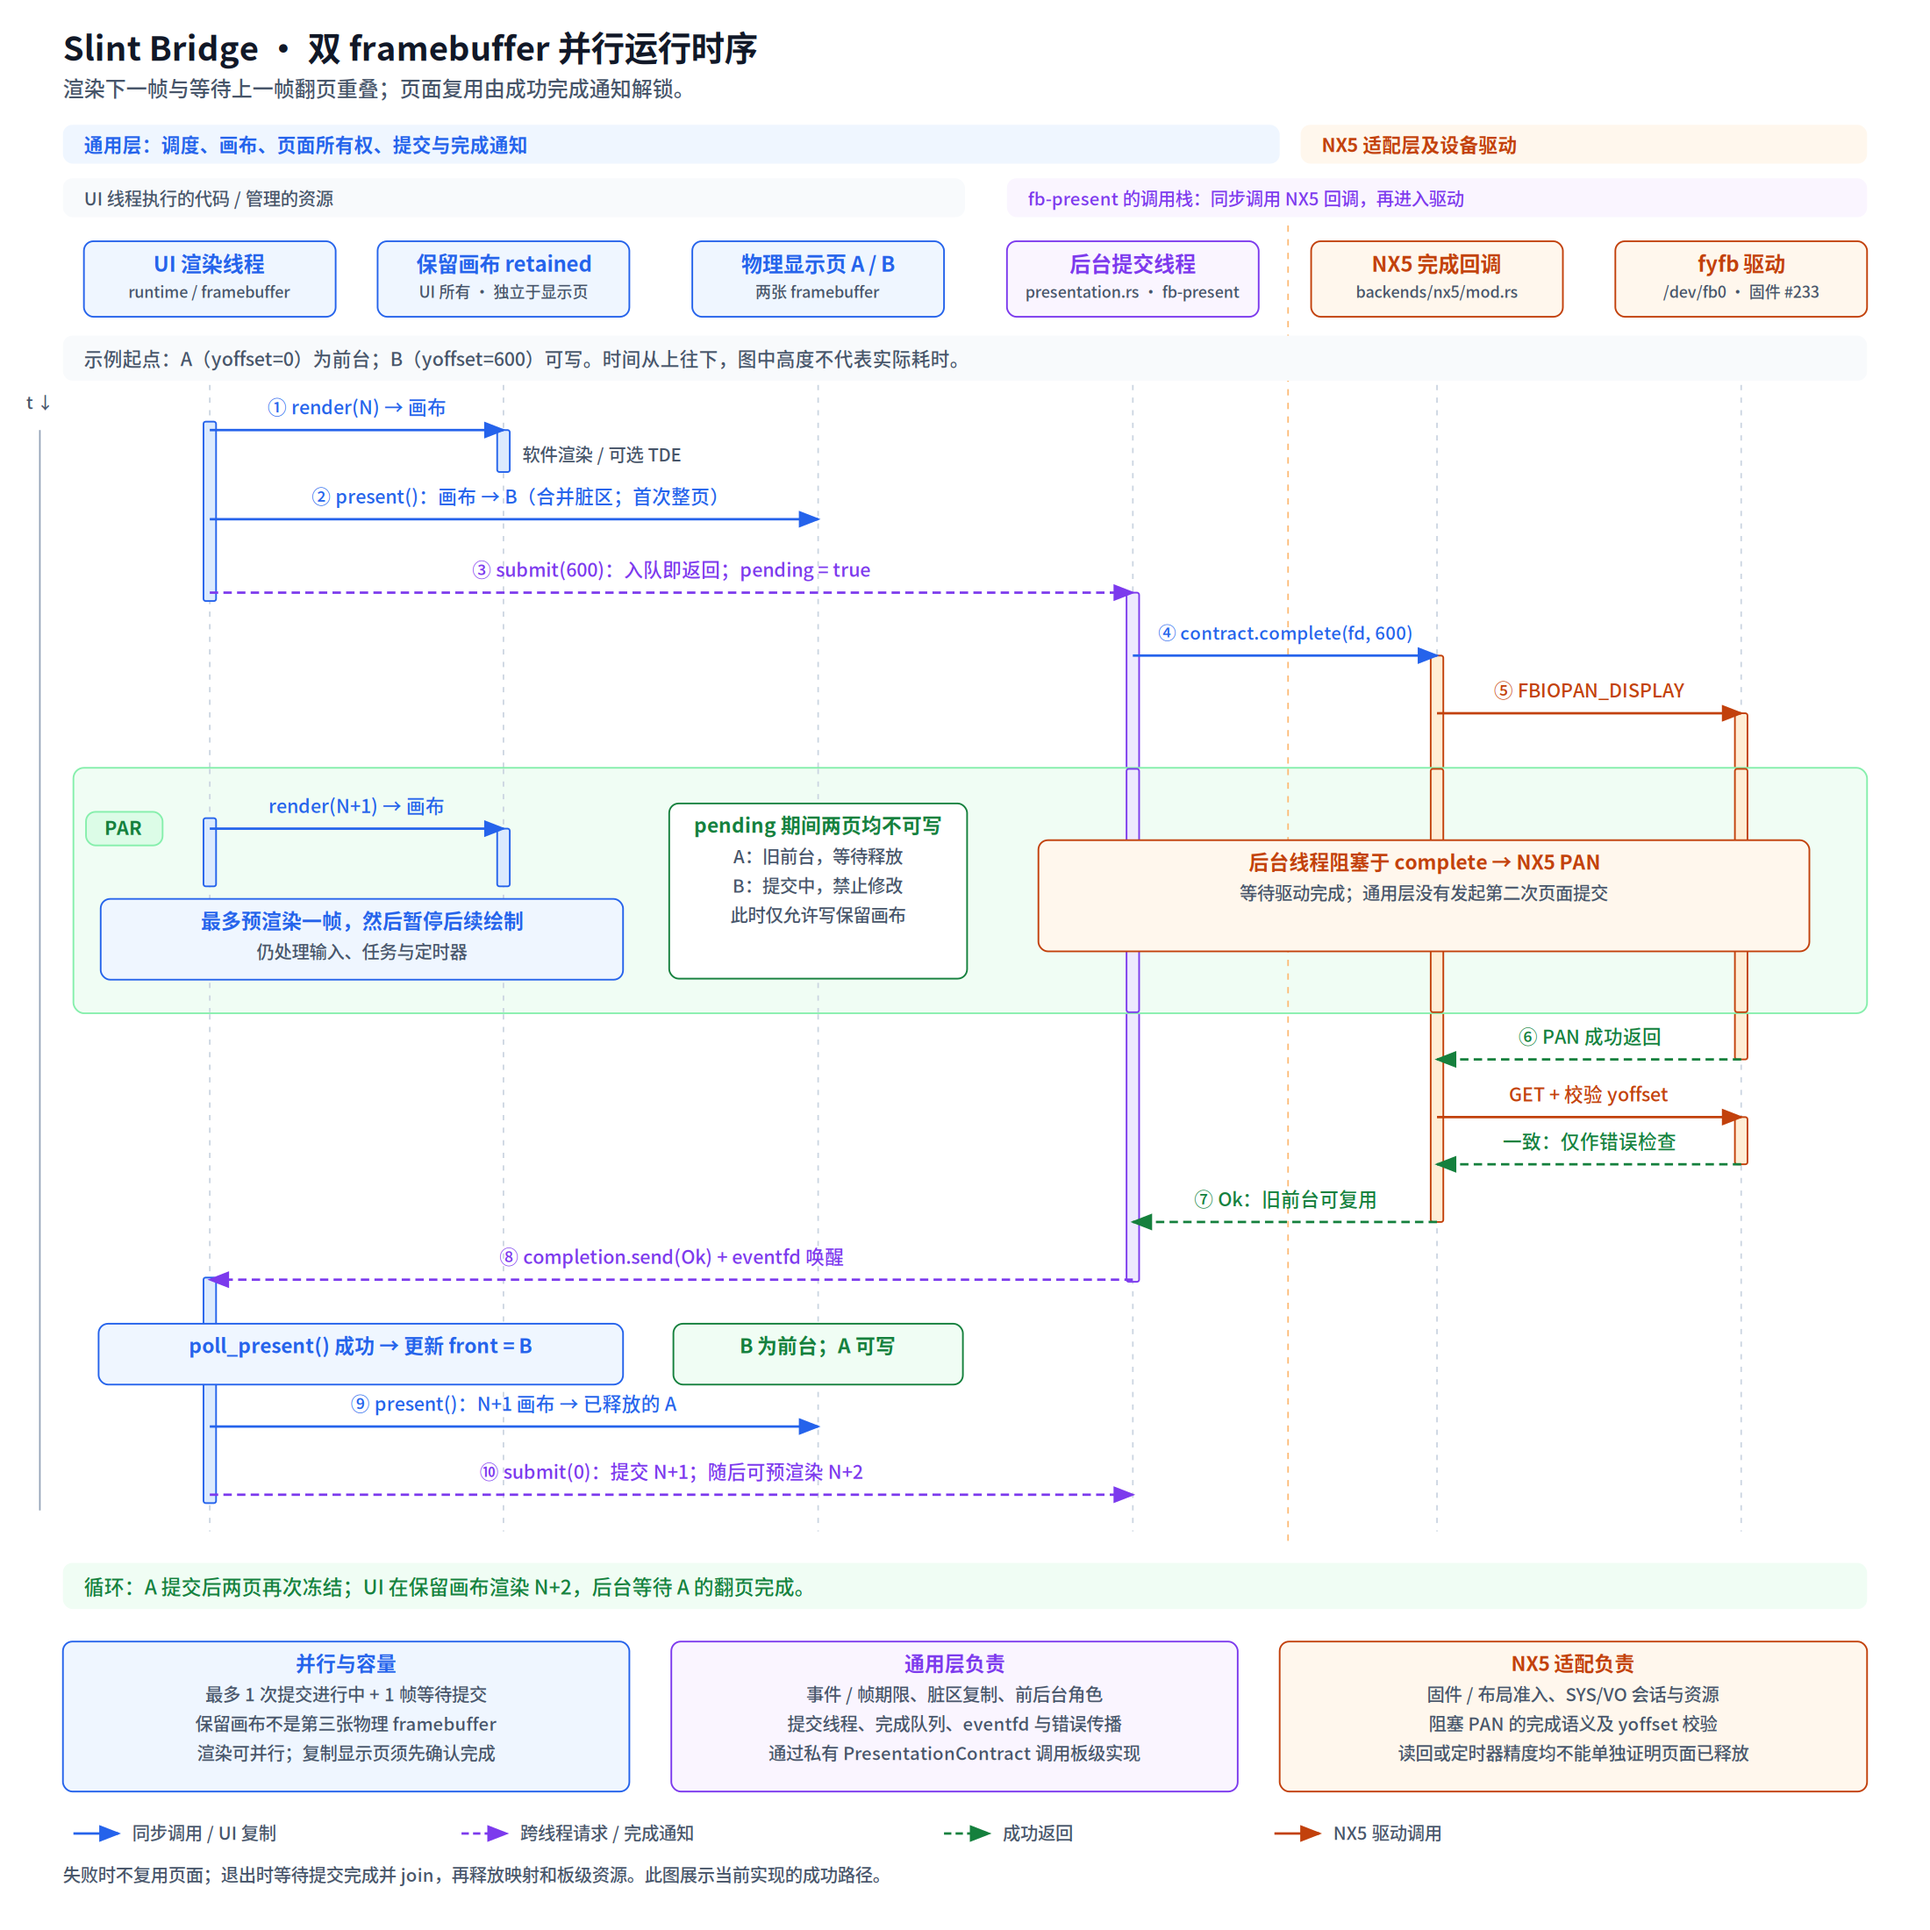
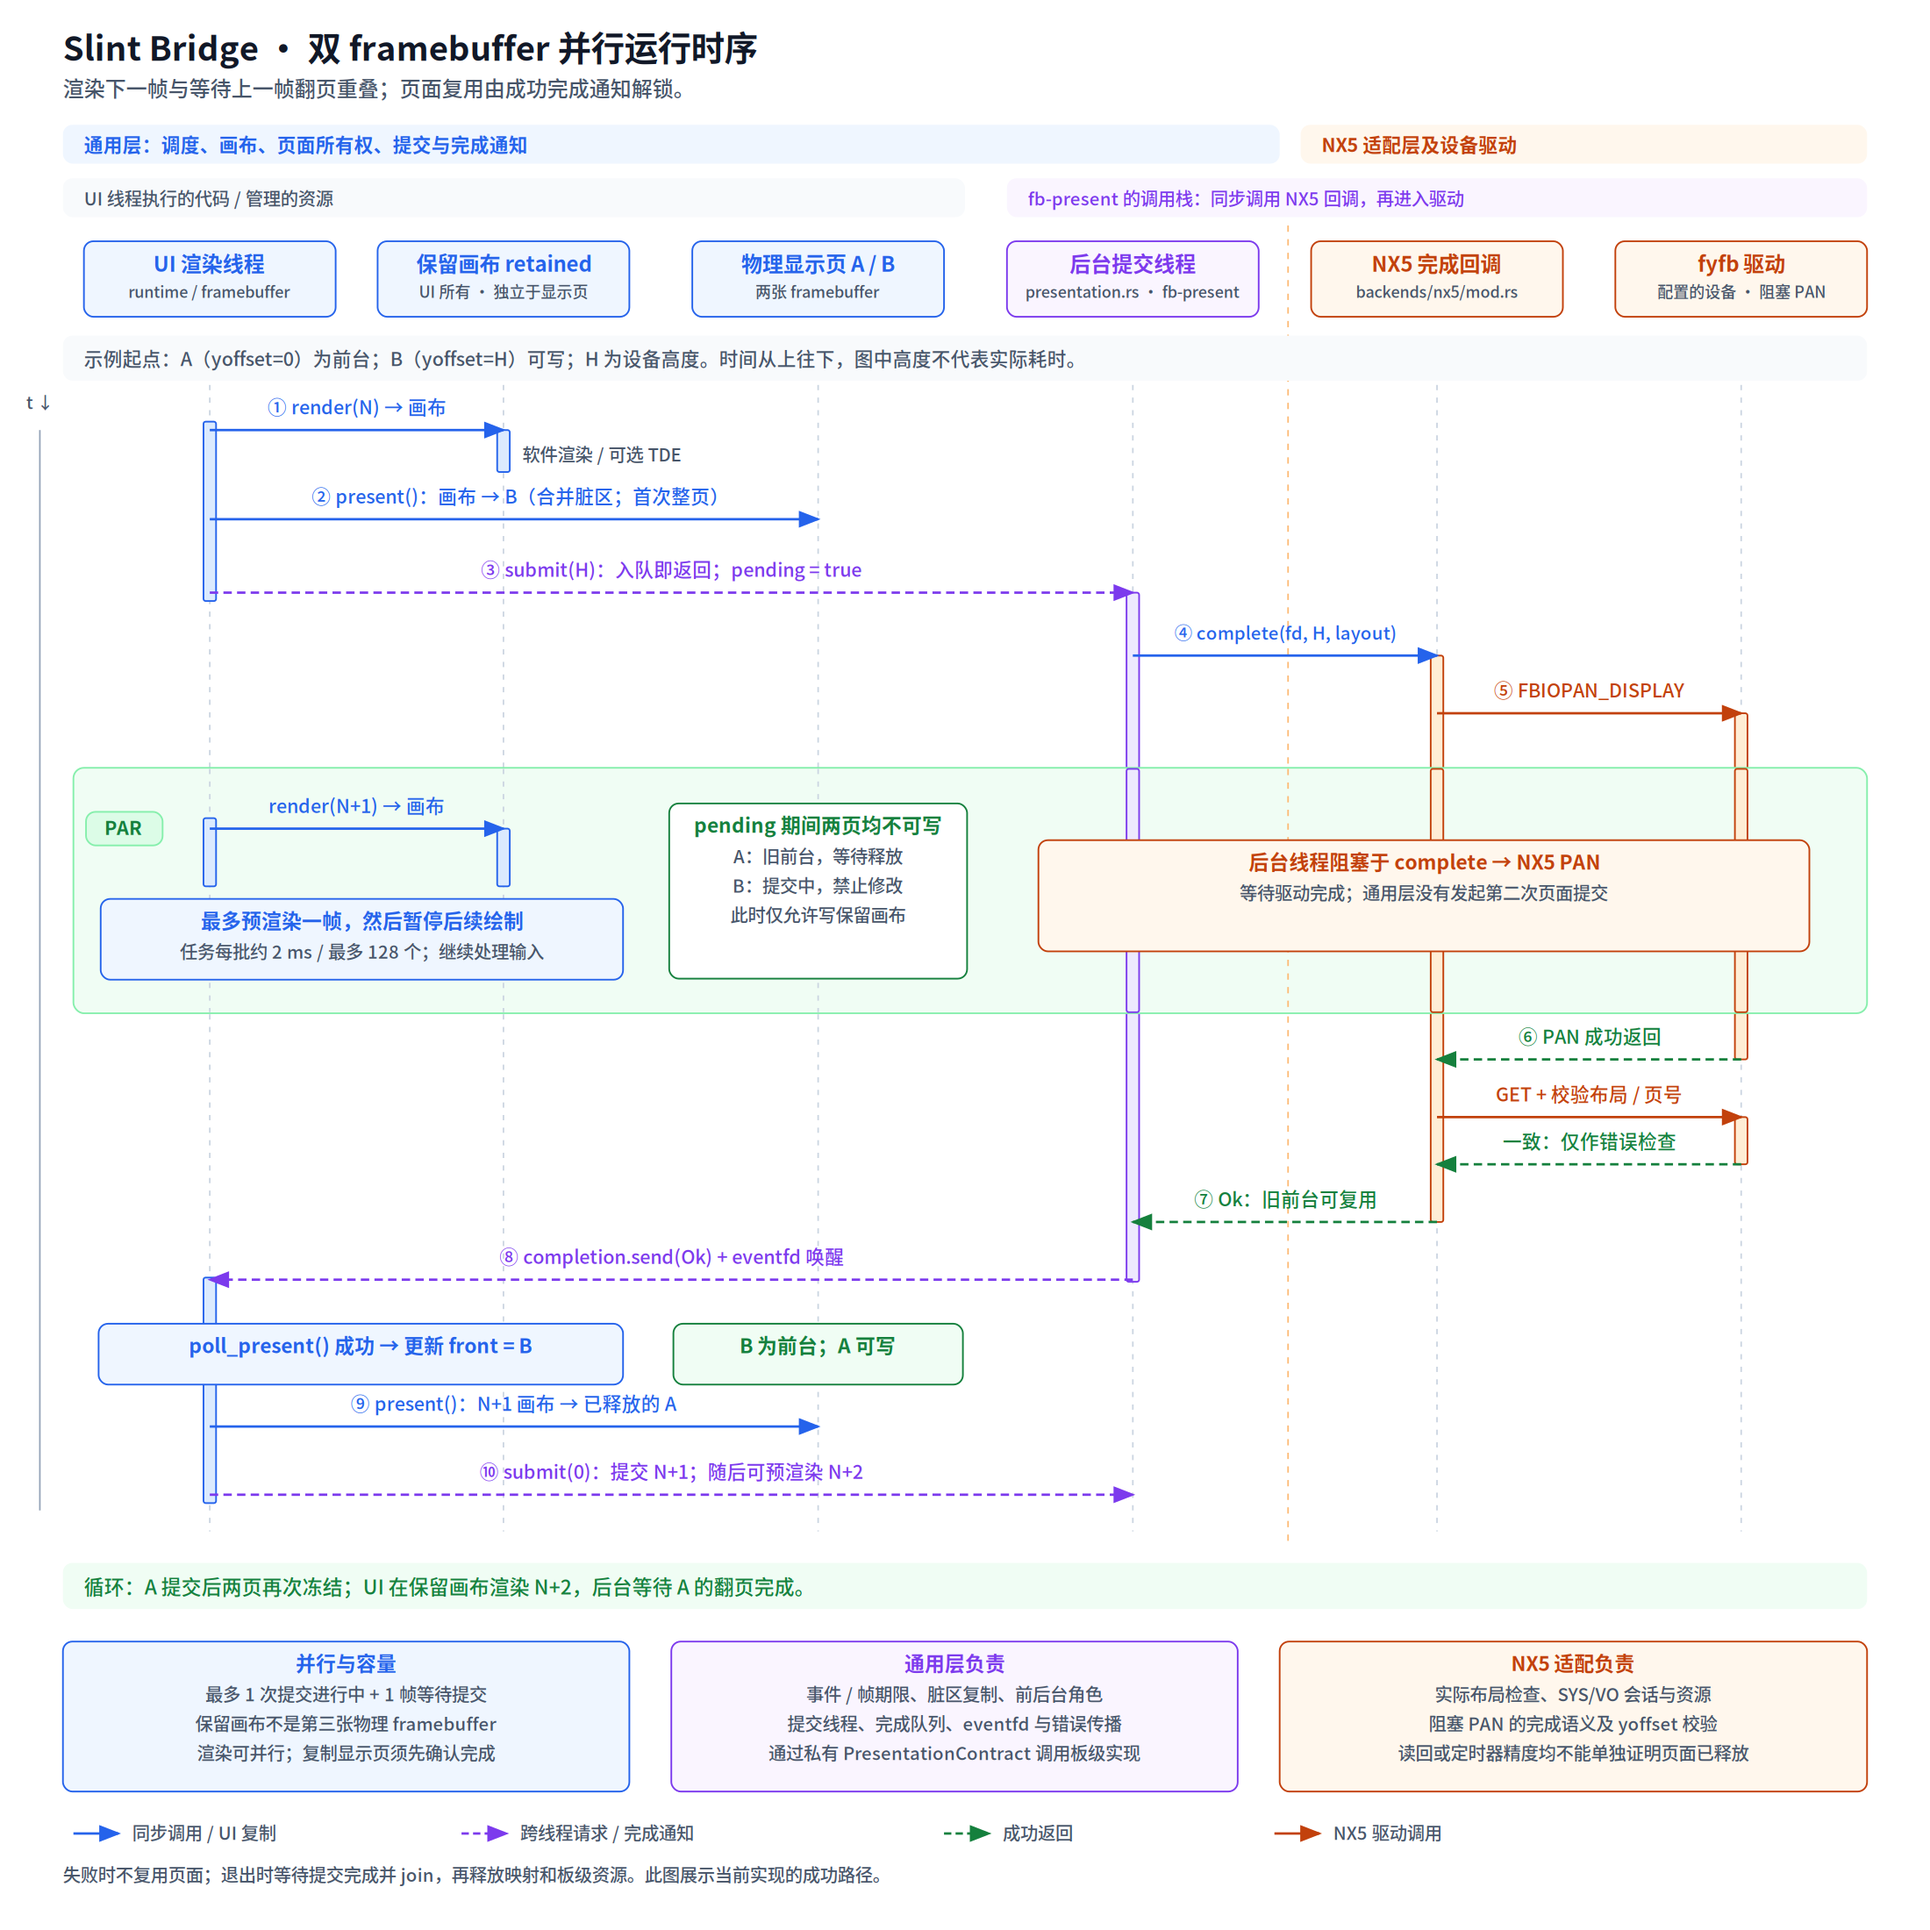
Bound wake task batches by elapsed time to prevent touch starvation

diff --git a/docs/diagrams/runtime-sequence.html b/docs/diagrams/runtime-sequence.html
@@ -127,7 +127,7 @@
 <text id="text-28" data-graph-role="label" data-owner="render-next" data-graph-bounds="258.48,757,421.52,779" x="340.0" y="775" text-anchor="middle" font-size="18" font-weight="500" fill="#2563eb">render(N+1) → 画布</text>
 <rect id="ui-work" data-graph-bounds="96,857,594,934" data-graph-role="reserved" x="96" y="857" width="498" height="77" rx="9" fill="#eff6ff" stroke="#2563eb" stroke-width="1.6" />
 <text id="text-29" data-graph-role="content" x="345.0" y="885" text-anchor="middle" font-size="19" font-weight="600" fill="#2563eb">最多预渲染一帧，然后暂停后续绘制</text>
-<text id="text-30" data-graph-role="content" x="345.0" y="914" text-anchor="middle" font-size="17" font-weight="400" fill="#475569">仍处理输入、任务与定时器</text>
+<text id="text-30" data-graph-role="content" x="345.0" y="914" text-anchor="middle" font-size="17" font-weight="400" fill="#475569">任务每批约 2 ms / 最多 128 个；继续处理输入</text>
 <rect id="frozen-pages" data-graph-bounds="638,766,922,933" data-graph-role="reserved" x="638" y="766" width="284" height="167" rx="9" fill="#ffffff" stroke="#15803d" stroke-width="1.6" />
 <text id="text-31" data-graph-role="content" x="780.0" y="794" text-anchor="middle" font-size="19" font-weight="600" fill="#15803d">pending 期间两页均不可写</text>
 <text id="text-32" data-graph-role="content" x="780.0" y="823" text-anchor="middle" font-size="17" font-weight="400" fill="#475569">A：旧前台，等待释放</text>

diff --git a/src/tests/runtime.rs b/src/tests/runtime.rs
@@ -18,6 +18,128 @@ fn send_input(writer: &mut File, events: &[(u16, u16, i32)]) {
 }
 
 #[test]
+fn queued_callbacks_yield_to_touch_before_finishing_the_backlog() {
+    const NAME: &str =
+        "tests::runtime::queued_callbacks_yield_to_touch_before_finishing_the_backlog";
+    if std::env::var("SLINT_BRIDGE_TEST_CHILD").as_deref() != Ok(NAME) {
+        let run = std::process::Command::new(std::env::current_exe().unwrap())
+            .args(["--exact", NAME, "--nocapture"])
+            .env("SLINT_BRIDGE_TEST_CHILD", NAME)
+            .output()
+            .unwrap();
+        assert!(
+            run.status.success(),
+            "{}{}",
+            String::from_utf8_lossy(&run.stdout),
+            String::from_utf8_lossy(&run.stderr)
+        );
+        return;
+    }
+    let (frame_ready, rendered) = mpsc::sync_channel(1);
+    let target = surface_with_completion(8, 6, 32, 0, move |_| {
+        let _ = frame_ready.try_send(());
+        Ok(())
+    });
+    let (reader, writer) = input_pipe();
+    let platform = crate::runtime::BridgePlatform::with_inputs(
+        Config::default(),
+        target.fb,
+        vec![Evdev {
+            file: reader,
+            decoder: super::input::touch_decoder(Rotation::None),
+        }],
+        Vec::new(),
+    )
+    .unwrap();
+    slint::platform::set_platform(Box::new(platform)).unwrap();
+    let ui = LoopScene::new().unwrap();
+    ui.invoke_focus_keys();
+    let completed = Arc::new(std::sync::atomic::AtomicUsize::new(0));
+    let observed = Arc::new(Mutex::new(None));
+    let started = Arc::new(Mutex::new(None::<std::time::Instant>));
+    let count = completed.clone();
+    let result = observed.clone();
+    let start = started.clone();
+    ui.on_tapped(move || {
+        *result.lock().unwrap() = Some((
+            count.load(Ordering::SeqCst),
+            start.lock().unwrap().unwrap().elapsed(),
+        ));
+    });
+    let mut input_writer = Some(writer.try_clone().unwrap());
+    let task_count = completed.clone();
+    let producer = thread::spawn(move || {
+        // Input needs the real window's first layout, just like a displayed UI.
+        rendered.recv_timeout(Duration::from_secs(3)).unwrap();
+        let (release, gate) = mpsc::sync_channel(1);
+        let (entered, staging) = mpsc::sync_channel(1);
+        slint::invoke_from_event_loop(move || {
+            entered.send(()).unwrap();
+            gate.recv_timeout(Duration::from_secs(3)).unwrap();
+        })
+        .unwrap();
+        staging.recv_timeout(Duration::from_secs(3)).unwrap();
+        for index in 0..64 {
+            let mut writer = input_writer.take();
+            let count = task_count.clone();
+            let start = started.clone();
+            slint::invoke_from_event_loop(move || {
+                assert_eq!(
+                    count.fetch_add(1, Ordering::SeqCst),
+                    index,
+                    "task FIFO changed"
+                );
+                if let Some(writer) = &mut writer {
+                    *start.lock().unwrap() = Some(std::time::Instant::now());
+                    send_input(
+                        writer,
+                        &[
+                            (3, 0, 400),
+                            (3, 1, 500),
+                            (1, 330, 1),
+                            (0, 0, 0),
+                            (1, 330, 0),
+                            (0, 0, 0),
+                        ],
+                    );
+                }
+                // Model small UI updates on a slow CPU, not one uninterruptible task.
+                thread::sleep(Duration::from_millis(2));
+                if index == 63 {
+                    slint::Timer::single_shot(Duration::from_millis(10), || {
+                        slint::quit_event_loop().unwrap()
+                    });
+                }
+            })
+            .unwrap();
+        }
+        release.send(()).unwrap();
+    });
+    ui.run().unwrap();
+    producer.join().unwrap();
+    let (callbacks, elapsed) = observed
+        .lock()
+        .unwrap()
+        .expect("touch callback was not dispatched");
+    eprintln!("touch handled after {callbacks} callbacks, elapsed={elapsed:?}");
+    assert_eq!(
+        ui.get_taps(),
+        1,
+        "pending touch must reach the Slint component"
+    );
+    assert!(
+        callbacks <= 8,
+        "touch waited for {callbacks} queued callbacks ({elapsed:?})"
+    );
+    assert_eq!(
+        completed.load(Ordering::SeqCst),
+        64,
+        "yielding lost queued work"
+    );
+    drop(writer);
+}
+
+#[test]
 fn event_loop_runs_callbacks_and_timers_during_flip_and_reports_idle_failure() {
     // Slint installs its process-global proxy once; isolate this second real
     // platform from the existing event-loop integration test.

diff --git a/src/tests/wake.rs b/src/tests/wake.rs
@@ -33,3 +33,65 @@ fn proxy_wakes_poll_and_rejects_after_shutdown() {
             .is_err()
     );
 }
+
+#[test]
+fn draining_wakeup_preserves_queued_work_and_later_notifications() {
+    let queue = WakeQueue::new().unwrap();
+    let executed = Arc::new(Mutex::new(Vec::new()));
+    for value in 0..129 {
+        let output = executed.clone();
+        Proxy(queue.clone())
+            .invoke_from_event_loop(Box::new(move || output.lock().unwrap().push(value)))
+            .unwrap();
+    }
+    queue.drain_signal().unwrap();
+    for task in queue.tasks() {
+        task();
+    }
+    assert!(
+        queue.has_tasks(),
+        "the eventfd counter is not the task queue"
+    );
+    let output = executed.clone();
+    Proxy(queue.clone())
+        .invoke_from_event_loop(Box::new(move || output.lock().unwrap().push(129)))
+        .unwrap();
+    let mut fd = libc::pollfd {
+        fd: queue.fd(),
+        events: libc::POLLIN,
+        revents: 0,
+    };
+    assert_eq!(unsafe { libc::poll(&mut fd, 1, 0) }, 1);
+    queue.drain_signal().unwrap();
+    while queue.has_tasks() {
+        for task in queue.tasks() {
+            task();
+        }
+    }
+    assert_eq!(*executed.lock().unwrap(), (0..130).collect::<Vec<_>>());
+}
+
+#[test]
+fn task_callbacks_can_post_and_shutdown_without_holding_the_queue_lock() {
+    let queue = WakeQueue::new().unwrap();
+    let (released, unlocked) = mpsc::channel();
+    let repost = queue.clone();
+    Proxy(queue.clone())
+        .invoke_from_event_loop(Box::new(move || {
+            let worker = thread::spawn(move || {
+                Proxy(repost.clone())
+                    .invoke_from_event_loop(Box::new(|| {}))
+                    .unwrap();
+                Proxy(repost).quit_event_loop().unwrap();
+                released.send(()).unwrap();
+            });
+            unlocked.recv_timeout(Duration::from_secs(1)).unwrap();
+            worker.join().unwrap();
+        }))
+        .unwrap();
+    for task in queue.tasks() {
+        task();
+    }
+    assert!(queue.quit_requested());
+    queue.finish();
+}

diff --git a/src/wake.rs b/src/wake.rs
@@ -5,6 +5,7 @@ use std::{
     io,
     os::fd::{AsRawFd, FromRawFd, OwnedFd},
     sync::{Arc, Mutex},
+    time::{Duration, Instant},
 };
 
 type Task = Box<dyn FnOnce() + Send>;
@@ -77,10 +78,20 @@ impl WakeQueue {
         }
     }
 
-    pub(crate) fn tasks(&self) -> Vec<Task> {
-        let mut state = self.state.lock().unwrap();
-        let count = state.tasks.len().min(128);
-        state.tasks.drain(..count).collect()
+    pub(crate) fn tasks(&self) -> impl Iterator<Item = Task> + '_ {
+        let start = Instant::now();
+        let mut first = true;
+        // A count limit alone can block input for hundreds of milliseconds on
+        // a slow CPU. Check elapsed time between callbacks, always allowing one
+        // to make progress. Unstarted work stays queued in FIFO order.
+        std::iter::from_fn(move || {
+            if !first && start.elapsed() >= Duration::from_millis(2) {
+                return None;
+            }
+            first = false;
+            self.state.lock().unwrap().tasks.pop_front()
+        })
+        .take(128)
     }
 
     pub(crate) fn quit_requested(&self) -> bool {

diff --git a/docs/diagrams/runtime-sequence.py b/docs/diagrams/runtime-sequence.py
@@ -120,7 +120,7 @@ for ident,y,h,color,fill in [
 rect(82,774,73,32,'#dcfce7','#86efac')
 text(118,796,'PAR',18,GREEN,700,'middle',role='content')
 msg('render-next','ui','canvas',790,'render(N+1) → 画布',size=18)
-note('ui-work',96,857,498,77,'最多预渲染一帧，然后暂停后续绘制',['仍处理输入、任务与定时器'],BLUE,'#eff6ff')
+note('ui-work',96,857,498,77,'最多预渲染一帧，然后暂停后续绘制',['任务每批约 2 ms / 最多 128 个；继续处理输入'],BLUE,'#eff6ff')
 note('frozen-pages',638,766,284,167,'pending 期间两页均不可写',['A：旧前台，等待释放','B：提交中，禁止修改','此时仅允许写保留画布'],GREEN,'#ffffff')
 note('blocked-worker',990,801,735,106,'后台线程阻塞于 complete → NX5 PAN',['等待驱动完成；通用层没有发起第二次页面提交'],ORANGE,'#fff7ed')
 

diff --git a/src/tests/mod.rs b/src/tests/mod.rs
@@ -155,6 +155,7 @@ slint::slint! {
     export component LoopScene inherits Window {
         preferred-width: 8px; preferred-height: 6px;
         in-out property<int> taps: 0;
+        callback tapped();
         in-out property<int> keys: 0;
         in-out property<color> paint: red;
         in-out property<float> overlay-opacity: 0;
@@ -163,7 +164,7 @@ slint::slint! {
         animate overlay-opacity { duration: 100ms; }
         background: root.paint;
         Rectangle { background: white; opacity: root.overlay-opacity; }
-        TouchArea { clicked => { root.taps += 1; } }
+        TouchArea { clicked => { root.taps += 1; root.tapped(); } }
         key-focus := FocusScope {
             key-pressed(event) => { root.keys += 1; accept }
         }

diff --git a/src/tests/input.rs b/src/tests/input.rs
@@ -1,6 +1,6 @@
 use super::*;
 
-fn touch_decoder(rotation: Rotation) -> Decoder {
+pub(super) fn touch_decoder(rotation: Rotation) -> Decoder {
     Decoder::new(
         PhysicalSize::new(8, 6),
         rotation,
